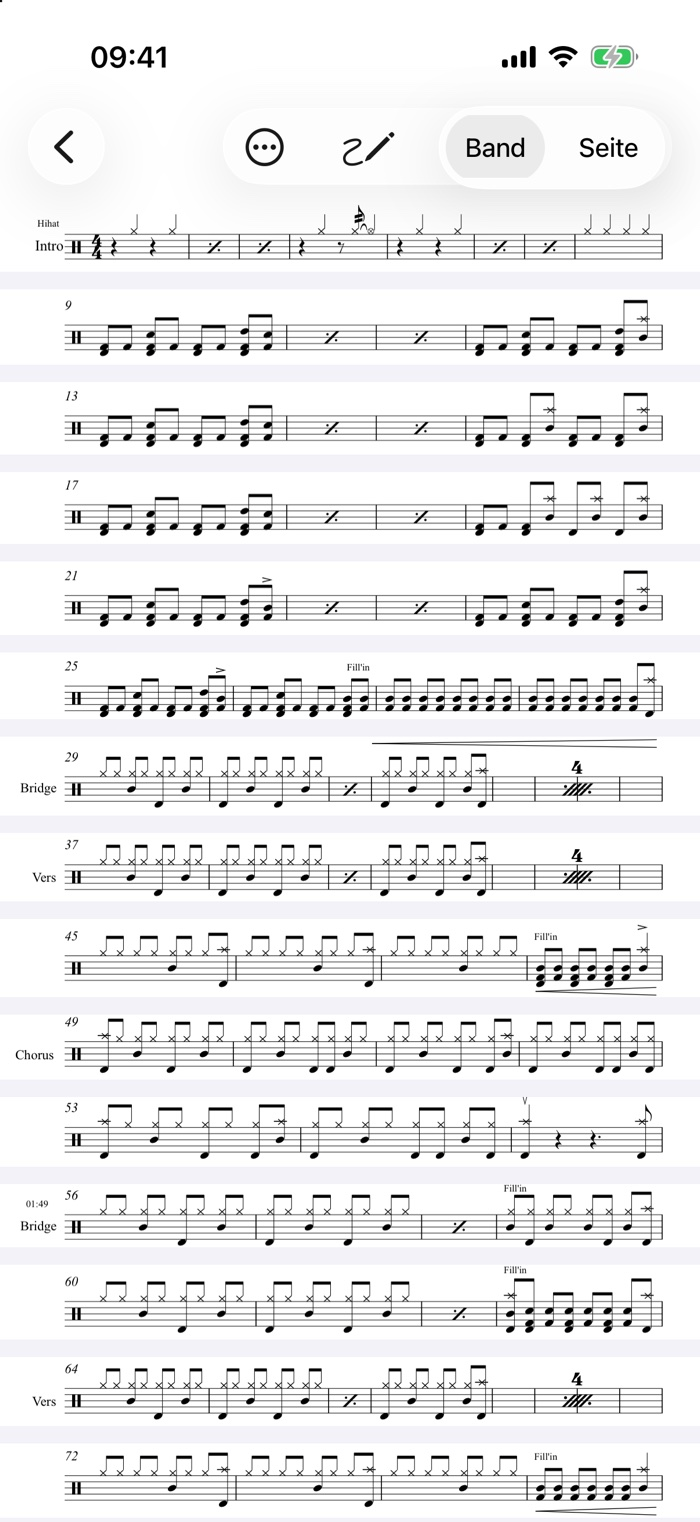
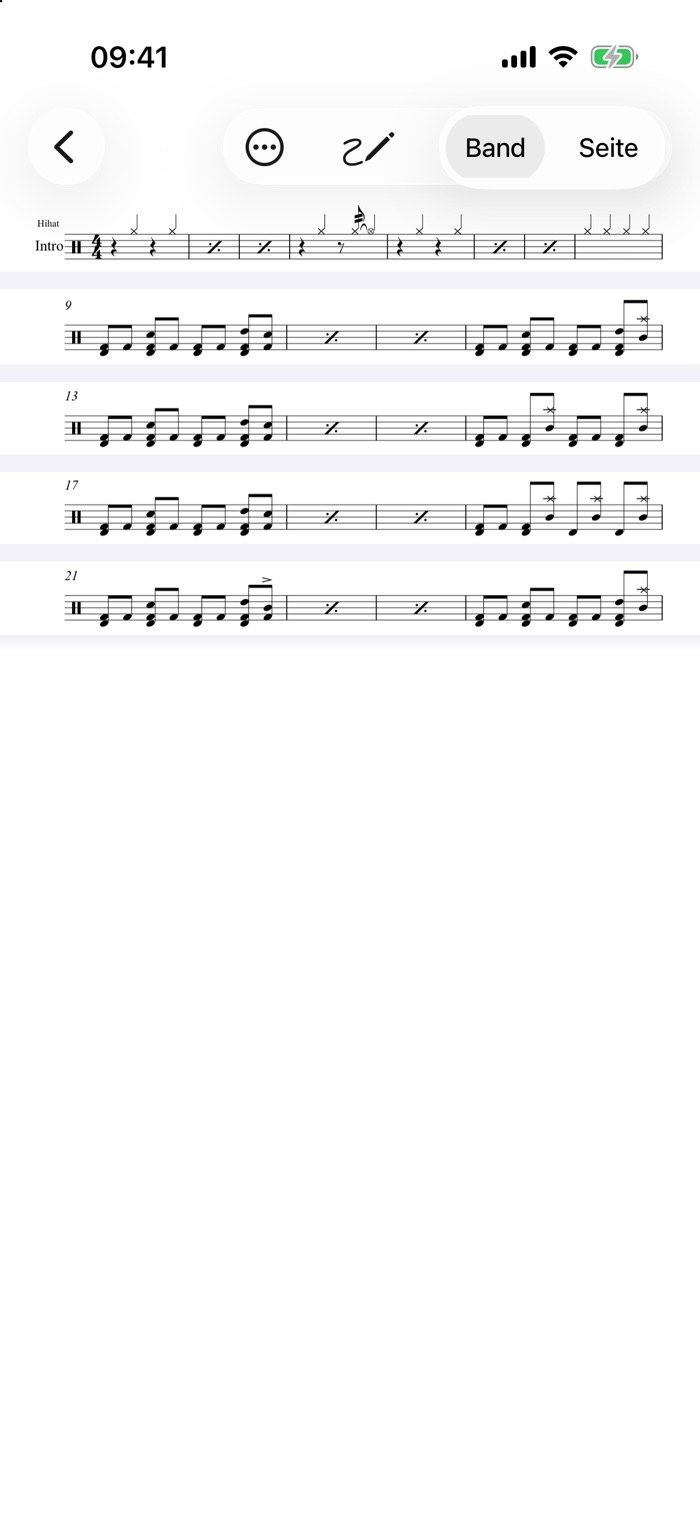
Notenfotos zeigen nur noch ein Drittel des Blatts
Silvio, 27.09.2026: „1/3 reicht doch zur Veranschaulichung“. Das Notenband
auf dem iPhone und das iPad hochkant zeigen nur noch die ersten fünf Zeilen
(Takt 1 bis 24), darunter bleibt das Band weiß. Größe und Seitenverhältnis
der Bilder bleiben, damit die Handyrahmen auf sechs Seiten nicht verrutschen.
Das iPad quer zeigte ohnehin nur fünf Zeilen. Alternativtexte angepasst.

diff --git a/en/how-it-works/index.html b/en/how-it-works/index.html
@@ -110,7 +110,7 @@
       </div>
       <div class="feature__media">
         <div class="phone phone--band">
-          <img src="../../assets/shots/en/10-notenband.jpg" alt="The ribbon: thirteen staves of a score stacked as one continuous strand, with section names and bar numbers intact, and a switch at the top between ribbon and printed page." width="700" height="1522" loading="lazy">
+          <img src="../../assets/shots/en/10-notenband.jpg" alt="The ribbon: the first five staves of a score stacked as one continuous strand, with bar numbers intact, and a switch at the top between ribbon and printed page." width="700" height="1522" loading="lazy">
           <span class="zeiger" aria-hidden="true"></span>
         </div>
       </div>
@@ -357,7 +357,7 @@
     <div class="devices">
       <figure>
         <img src="../../assets/shots/en/13-ipad-noten-hoch.jpg"
-             alt="An iPad upright on a music stand: the whole score as one ribbon from top to bottom, with the linked track and the tempo below."
+             alt="An iPad upright on a music stand: the first staves of the score as one ribbon across the full width, with the linked track and the tempo below."
              width="820" height="1189" loading="lazy">
         <figcaption>
           <b>iPad, upright.</b> A whole piece on one screen: thirteen staves

diff --git a/so-funktionierts/index.html b/so-funktionierts/index.html
@@ -111,7 +111,7 @@
       </div>
       <div class="feature__media">
         <div class="phone phone--band">
-          <img src="../assets/shots/10-notenband.jpg" alt="Das Notenband: die Notenzeilen eines zweiseitigen Notenblatts als durchgehender Strang untereinander, oben ein Umschalter zwischen Band und gedruckter Seite." width="700" height="1522" loading="lazy">
+          <img src="../assets/shots/10-notenband.jpg" alt="Das Notenband: die ersten fünf Notenzeilen eines Notenblatts als durchgehender Strang untereinander, oben ein Umschalter zwischen Band und gedruckter Seite." width="700" height="1522" loading="lazy">
           <span class="zeiger" aria-hidden="true"></span>
         </div>
       </div>
@@ -362,7 +362,7 @@
     <div class="devices">
       <figure>
         <img src="../assets/shots/13-ipad-noten-hoch.jpg"
-             alt="Ein iPad im Hochformat auf dem Notenständer: das ganze Notenblatt als Band von oben bis unten, darunter der verknüpfte Titel und das Tempo."
+             alt="Ein iPad im Hochformat auf dem Notenständer: die ersten Zeilen des Notenblatts als Band über die volle Breite, darunter der verknüpfte Titel und das Tempo."
              width="820" height="1189" loading="lazy">
         <figcaption>
           <b>iPad, hochkant.</b> Das ganze Stück auf einem Schirm: dreizehn

diff --git a/en/index.html b/en/index.html
@@ -208,7 +208,7 @@
       </div>
       <div class="feature__media">
         <div class="phone phone--band">
-          <img src="../assets/shots/en/10-notenband.jpg" alt="The sheet music as one continuous ribbon: the staves one below the other across the full width, with no page breaks." width="700" height="1522" loading="lazy">
+          <img src="../assets/shots/en/10-notenband.jpg" alt="The sheet music as one continuous ribbon: the first five staves one below the other across the full width, with no page breaks." width="700" height="1522" loading="lazy">
           <span class="zeiger" aria-hidden="true"></span>
         </div>
       </div>

diff --git a/index.html b/index.html
@@ -209,7 +209,7 @@
       </div>
       <div class="feature__media">
         <div class="phone phone--band">
-          <img src="assets/shots/10-notenband.jpg" alt="Das Notenblatt als durchgehendes Band: die Notenzeilen untereinander über die volle Breite, ohne Seitenwechsel." width="700" height="1522" loading="lazy">
+          <img src="assets/shots/10-notenband.jpg" alt="Das Notenblatt als durchgehendes Band: die ersten fünf Notenzeilen untereinander über die volle Breite, ohne Seitenwechsel." width="700" height="1522" loading="lazy">
           <span class="zeiger" aria-hidden="true"></span>
         </div>
       </div>

diff --git a/start/index.html b/start/index.html
@@ -173,7 +173,7 @@
       </figure>
       <figure>
         <img src="../assets/shots/10-notenband.jpg" width="700" height="1522" loading="lazy"
-             alt="Das Notenband: die Notenzeilen aus einem PDF, über die volle Breite untereinander gesetzt.">
+             alt="Das Notenband: die ersten fünf Notenzeilen aus einem PDF, über die volle Breite untereinander gesetzt.">
         <figcaption>Die Noten als Band. Kein Blättern mehr.</figcaption>
       </figure>
     </div>

diff --git a/en/start/index.html b/en/start/index.html
@@ -171,7 +171,7 @@
       </figure>
       <figure>
         <img src="../../assets/shots/en/10-notenband.jpg" width="700" height="1522" loading="lazy"
-             alt="The staff ribbon: the staves from a PDF stacked across the full width of the screen.">
+             alt="The staff ribbon: the first five staves from a PDF stacked across the full width of the screen.">
         <figcaption>Your sheet music as a ribbon. No more page turns.</figcaption>
       </figure>
     </div>
